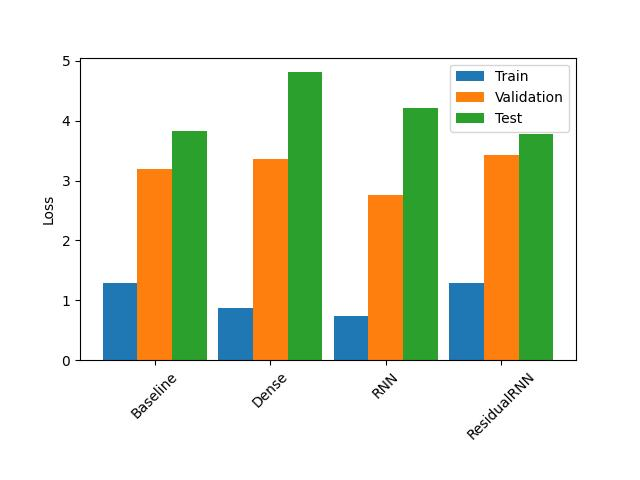
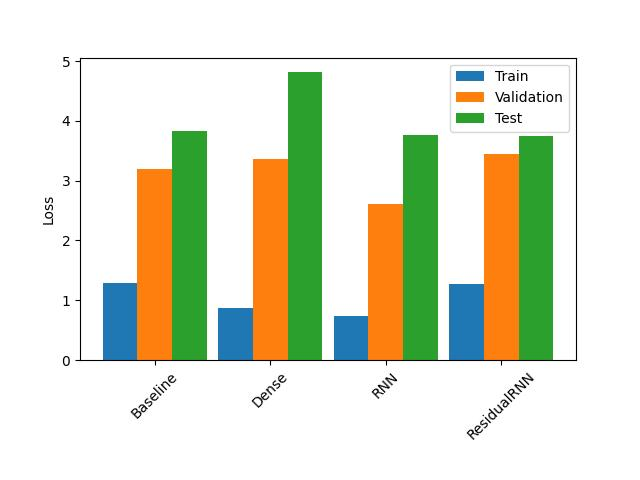
bugfixed + new method to calculate model size

diff --git a/Experiments/experiments_package/general/performance.py b/Experiments/experiments_package/general/performance.py
@@ -2,8 +2,6 @@
 A helper class that tracks performances for experiments.
 """
 
-import os
-import tempfile
 import time
 from dataclasses import dataclass
 
@@ -35,16 +33,17 @@ class Performances:
     def register_performance(self, name, model):
         self.model_names.append(name)
 
-        ##Create the datasets before processing for more consistent timing
-        validation = self.window_generator.val
-        training = self.window_generator.train
-        testing = self.window_generator.test
-
         print("  ... measuring performance ...")
         before = time.process_time()
-        self.performances.valid[name] = model.evaluate(validation, verbose=0)
-        self.performances.test[name] = model.evaluate(testing, verbose=0)
-        self.performances.train[name] = model.evaluate(training, verbose=0)
+        self.performances.train[name] = model.evaluate(
+            self.window_generator.train, verbose=0
+        )
+        self.performances.valid[name] = model.evaluate(
+            self.window_generator.val, verbose=0
+        )
+        self.performances.test[name] = model.evaluate(
+            self.window_generator.test, verbose=0
+        )
         after = time.process_time()
 
         self.performances.timing[name] = (
@@ -85,8 +84,7 @@ class Performances:
         return stats.T
 
     def save(self, where):
-        stats = self.create_performance_data()
-        stats.to_csv(where)
+        self.create_performance_data().to_csv(where)
         print(" => Statistics Saved.")
 
     def save_plot(self, where):
@@ -129,13 +127,8 @@ class Performances:
 
 
 def get_model_size_byte(model):
-    _, keras_file = tempfile.mkstemp(".h5")
-    try:
-        tf.keras.models.save_model(model, keras_file, include_optimizer=False)
-    except NotImplementedError:  # IF model cannot be saved (e.g. basemodel)
-        return 0
 
-    return os.path.getsize(keras_file)
+    return _get_model_memory_usage(model)
 
 
 def get_trainable_params(model):
@@ -146,3 +139,42 @@ def get_non_trainable_params(model):
     return np.sum(
         [tf.size(w_matrix).numpy() for w_matrix in model.non_trainable_variables]
     )
+
+
+def _get_model_memory_usage(model):
+    """
+    Copyright: From comment on stack-overflow:
+    https://stackoverflow.com/questions/43137288/how-to-determine-needed-memory-of-keras-model
+    """
+
+    shapes_mem_count = 0
+    internal_model_mem_count = 0
+    for layer in model.layers:
+        layer_type = layer.__class__.__name__
+        if layer_type == "Model":
+            internal_model_mem_count += _get_model_memory_usage(layer)
+        single_layer_mem = 1
+        out_shape = layer.output_shape
+        if type(out_shape) is list:
+            out_shape = out_shape[0]
+        for s in out_shape:
+            if s is None:
+                continue
+            single_layer_mem *= s
+        shapes_mem_count += single_layer_mem
+
+    trainable_count = np.sum([tf.keras.backend.count_params(p) for p in model.trainable_weights])
+    non_trainable_count = np.sum(
+        [tf.keras.backend.count_params(p) for p in model.non_trainable_weights]
+    )
+
+    number_size = 4.0
+    if tf.keras.backend.floatx() == "float16":
+        number_size = 2.0
+    if tf.keras.backend.floatx() == "float64":
+        number_size = 8.0
+
+    total_memory = number_size * (
+        shapes_mem_count + trainable_count + non_trainable_count
+    )
+    return total_memory + internal_model_mem_count

diff --git a/Experiments/experiments_package/general/experiment.py b/Experiments/experiments_package/general/experiment.py
@@ -60,8 +60,7 @@ class Experiment(ABC):
         return models[model_name]
 
     @with_random_seed_reset
-    def _evaluate_single_model(self, model_name, performance: Performances):
-        model = self._get_model(model_name)
+    def _evaluate_single_model(self, model_name, model, performance: Performances):
         print("Fit model: ", model_name)
         history = self.compile_and_fit(model)
         print(" ... Done")
@@ -74,8 +73,8 @@ class Experiment(ABC):
         """Runs the experiment"""
         models = self.get_models()
         print(f"Run Experiment: {self.name}")
-        for name in models.keys():
-            self._evaluate_single_model(name, self.performance)
+        for name, model in models.items():
+            self._evaluate_single_model(name, model, self.performance)
 
         self.save_information(models)
 
@@ -98,8 +97,9 @@ class Experiment(ABC):
 
     def run_model(self, model_name: str):
         """Runs a single model"""
+        model = self._get_model(model_name)
         single_performance = Performances(self.data)
-        history = self._evaluate_single_model(model_name, single_performance)
+        history = self._evaluate_single_model(model_name, model, single_performance)
 
         single_performance.save(
             f"{self.path_to_output_folder}/{model_name}_{self.name}_losses.csv"

diff --git a/Experiments/experiments_package/general/analysis.py b/Experiments/experiments_package/general/analysis.py
@@ -61,9 +61,9 @@ def create_results_table(
 
         performance_stats.at[name, ("Model", "Summary")] = _get_summary_as_string(model)
         performance_stats.at[name, ("Model", "Name")] = name
-        performance_stats.at[name, ("Model", "Size (MB)")] = get_model_size_byte(
+        performance_stats.at[name, ("Model", "Size (KB)")] = get_model_size_byte(
             model
-        ) / (1024 * 1024)
+        ) / 1024
         performance_stats.at[
             name, ("Model", "Trainable Params")
         ] = get_trainable_params(model)

diff --git a/Experiments/main.py b/Experiments/main.py
@@ -1,6 +1,7 @@
 import sys
 
 import typer
+
 from experiments_package.experiments import (
     Autoregressive,
     MultiOutputWithoutWeather,
@@ -69,8 +70,8 @@ def run_model(exp: str, model: str):
 
 @app.command("experiment")
 def run_experiment(
-    exp: str = None,
-    run_all: bool = None,
+        exp: str = None,
+        run_all: bool = None,
 ):
     """Run an experiment with all registered models."""
     if exp is None:

diff --git a/Experiments/experiments_package/models/single_step/ResidualRNN.py b/Experiments/experiments_package/models/single_step/ResidualRNN.py
@@ -11,6 +11,8 @@ class ResidualRNN(tf.keras.Model):
             label_width=label_width,
             num_labels=num_labels,
         )
+        self.build(input_shape=(None, window_width, feature_size))
+        self.model.build(input_shape=(None, window_width, feature_size))
 
     def call(self, inputs, *args, **kwargs):
         delta = self.model(inputs, *args, **kwargs)

diff --git a/Experiments/experiments_package/general/decorators.py b/Experiments/experiments_package/general/decorators.py
@@ -5,8 +5,8 @@ from tensorflow import random
 
 
 def with_random_seed_reset(func):
-    def inner():
+    def inner(*args, **kwargs):
         random.set_seed(0)
-        func()
+        return func(*args, **kwargs)
 
     return inner

diff --git a/Experiments/experiments_package/general/__init__.py b/Experiments/experiments_package/general/__init__.py
@@ -1,4 +1,4 @@
 from .experiment import Experiment
-from .analysis import plot_history
+from .analysis import save_history_plot
 from .config import ProductIds, DatasetOptions
 from .combine_results import combine_results

diff --git a/Experiments/Readme.md b/Experiments/Readme.md
@@ -6,37 +6,37 @@
 
 ## Directory Structure
 
--   **experiments_package**
-    -   package for the code of the experiments
-    -   **experiments**
-        -   place for all experiments that are defined
-    -   **models**
-        -   place where all models are located and can be reused in different experiments
-    -   **general**
-        -   folder for the setup of experiments and generating results
--   **outputs**
+- **experiments_package**
+    - package for the code of the experiments
+    - **experiments**
+        - place for all experiments that are defined
+    - **models**
+        - place where all models are located and can be reused in different experiments
+    - **general**
+        - folder for the setup of experiments and generating results
+- **outputs**
 
-    -   place to save results of the experiments
+    - place to save results of the experiments
 
--   **main.py**
-    -   Script to run experiments
+- **main.py**
+    - Script to run experiments
 
 <br>
 
 # Usage
 
-```bash
+```shell
 python main.py --help
 ```
 
 e.g.:
 
-```bash
-python run <experiment> <model>
+```shell
+python main.py run <experiment> <model>
 ```
 
-```bash
-python experiment SingleOutput
+```shell
+python main.py experiment --exp SingleOutput
 ```
 
 Following things have to be considered while using:
@@ -45,17 +45,18 @@ Following things have to be considered while using:
 
 > Running a whole experiment generates outputs and results for that experiment.
 
-> To produce the "all_results"-csv-file for documentation one has to run the combine-results command. Repeat this step after each new experiment run in order to update.
+> To produce the "all_results"-csv-file for documentation one has to run the combine-results command. Repeat this step
+> after each new experiment run in order to update.
 
 <br>
 
 # How to add a new experiment
 
--   Define your models in the **models** directory
--   create a new experiment-file in **experiments**
--   instantiate a subclass of **general.Experiment**
--   fill the abstract methods below
--   Register the experiment in "experiments" array of the "main.py" file in main directory
+- Define your models in the **models** directory
+- create a new experiment-file in **experiments**
+- instantiate a subclass of **general.Experiment**
+- fill the abstract methods below
+- Register the experiment in "experiments" array of the "main.py" file in main directory
 
 ```python
 @abstractmethod
@@ -66,13 +67,13 @@ def get_dataset_options(self) -> general.DatasetOptions:
     e.g.:
     """
     return DatasetOptions(
-            data_origin="./../Data/xxx.csv",
-            drop_columns=["WeekoftheYear_cos"],
-            window_width=3,
-            label_width=1,
-            shift=1,
-            label_columns=["15720456723"],
-        )
+        data_origin="./../Data/xxx.csv",
+        drop_columns=["WeekoftheYear_cos"],
+        window_width=3,
+        label_width=1,
+        shift=1,
+        label_columns=["15720456723"],
+    )
 
 
 @abstractmethod
@@ -84,6 +85,7 @@ def compile_and_fit(self, model) -> History:
 
     - Please use verbose=0 in the fit function to declutter output.
     """
+
 
 @abstractmethod
 def get_train_settings(self) -> Dict[str, Any]:
